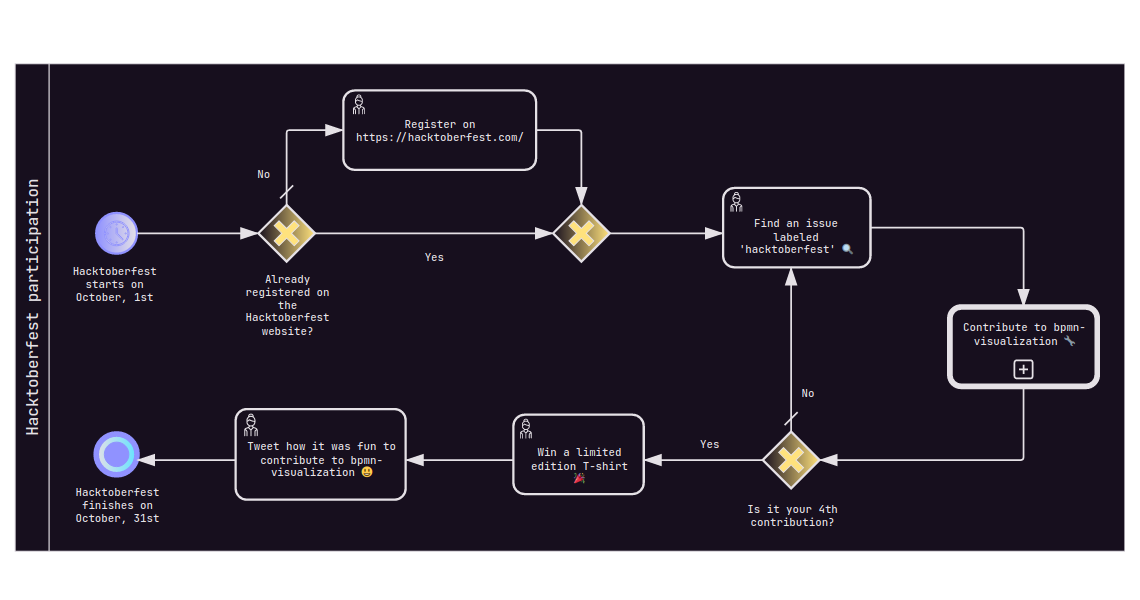
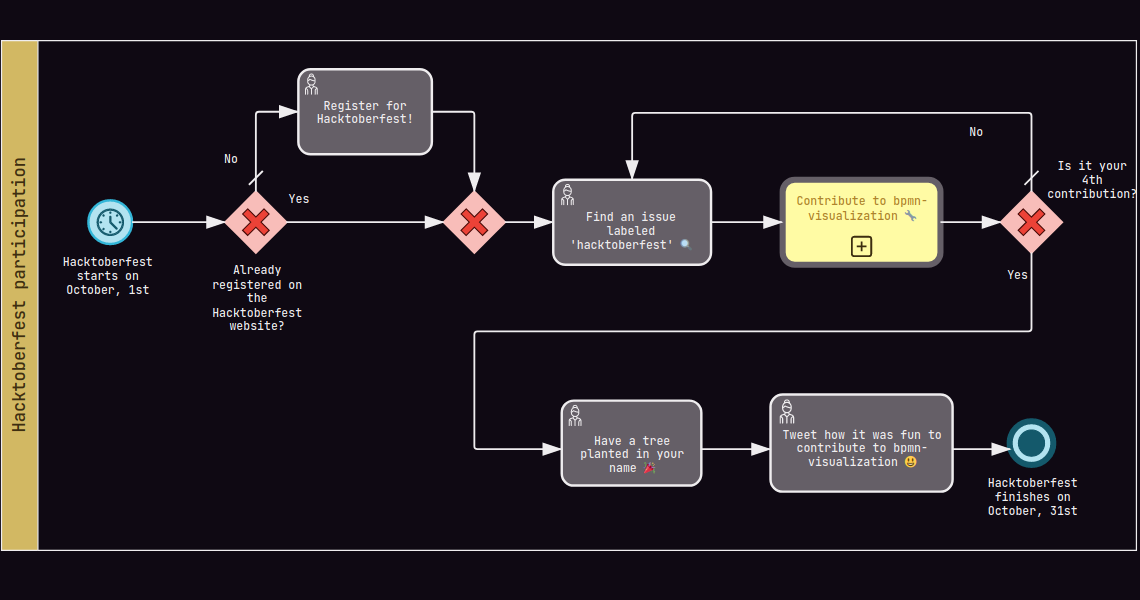
feat: improve the layout of the Hacktoberfest diagram (#555)
Use a layout that better respects the "left-to-right" direction.

diff --git a/examples/static/js/diagram/bpmn-diagrams.js b/examples/static/js/diagram/bpmn-diagrams.js
@@ -1672,24 +1672,37 @@ function getHacktoberfestBpmnDiagram(projectName) {
       <bpmn:outgoing>sequence_flow_1</bpmn:outgoing>
       <bpmn:timerEventDefinition />
     </bpmn:startEvent>
+    <bpmn:sequenceFlow id="sequence_flow_9" name="Yes" sourceRef="exclusive_gateway_3" targetRef="user_task_4">
+      <bpmn:conditionExpression xsi:type="bpmn:tFormalExpression" />
+    </bpmn:sequenceFlow>
+    <bpmn:sequenceFlow id="sequence_flow_8" name="No" sourceRef="exclusive_gateway_3" targetRef="user_task_2" />
+    <bpmn:sequenceFlow id="sequence_flow_6" sourceRef="user_task_2" targetRef="call_activity" />
+    <bpmn:sequenceFlow id="sequence_flow_5" sourceRef="exclusive_gateway_2" targetRef="user_task_2" />
+    <bpmn:sequenceFlow id="sequence_flow_4" name="Yes" sourceRef="exclusive_gateway_1" targetRef="exclusive_gateway_2">
+      <bpmn:conditionExpression xsi:type="bpmn:tFormalExpression" />
+    </bpmn:sequenceFlow>
+    <bpmn:sequenceFlow id="sequence_flow_3" sourceRef="user_task_1" targetRef="exclusive_gateway_2" />
+    <bpmn:sequenceFlow id="sequence_flow_2" name="No" sourceRef="exclusive_gateway_1" targetRef="user_task_1" />
+    <bpmn:sequenceFlow id="sequence_flow_1" sourceRef="start_event" targetRef="exclusive_gateway_1" />
     <bpmn:exclusiveGateway id="exclusive_gateway_1" name="Already registered on the Hacktoberfest website?" default="sequence_flow_2">
       <bpmn:incoming>sequence_flow_1</bpmn:incoming>
       <bpmn:outgoing>sequence_flow_2</bpmn:outgoing>
       <bpmn:outgoing>sequence_flow_4</bpmn:outgoing>
     </bpmn:exclusiveGateway>
-    <bpmn:userTask id="user_task_1" name="Register on https://hacktoberfest.com/">
-      <bpmn:incoming>sequence_flow_2</bpmn:incoming>
-      <bpmn:outgoing>sequence_flow_3</bpmn:outgoing>
-    </bpmn:userTask>
     <bpmn:exclusiveGateway id="exclusive_gateway_2">
       <bpmn:incoming>sequence_flow_3</bpmn:incoming>
       <bpmn:incoming>sequence_flow_4</bpmn:incoming>
       <bpmn:outgoing>sequence_flow_5</bpmn:outgoing>
     </bpmn:exclusiveGateway>
+    <bpmn:sequenceFlow id="sequence_flow_10" sourceRef="user_task_4" targetRef="user_task_5" />
     <bpmn:userTask id="user_task_2" name="Find an issue labeled &#39;hacktoberfest&#39; 🔍">
-      <bpmn:incoming>sequence_flow_5</bpmn:incoming>
       <bpmn:incoming>sequence_flow_8</bpmn:incoming>
+      <bpmn:incoming>sequence_flow_5</bpmn:incoming>
       <bpmn:outgoing>sequence_flow_6</bpmn:outgoing>
+    </bpmn:userTask>
+    <bpmn:userTask id="user_task_4" name="Have a tree planted in your name 🎉">
+      <bpmn:incoming>sequence_flow_9</bpmn:incoming>
+      <bpmn:outgoing>sequence_flow_10</bpmn:outgoing>
     </bpmn:userTask>
     <bpmn:callActivity id="call_activity" name="Contribute to ${projectName} 🔧">
       <bpmn:incoming>sequence_flow_6</bpmn:incoming>
@@ -1700,99 +1713,26 @@ function getHacktoberfestBpmnDiagram(projectName) {
       <bpmn:outgoing>sequence_flow_8</bpmn:outgoing>
       <bpmn:outgoing>sequence_flow_9</bpmn:outgoing>
     </bpmn:exclusiveGateway>
-    <bpmn:userTask id="user_task_4" name="Win a limited edition T-shirt 🎉">
-      <bpmn:incoming>sequence_flow_9</bpmn:incoming>
-      <bpmn:outgoing>sequence_flow_10</bpmn:outgoing>
-    </bpmn:userTask>
     <bpmn:userTask id="user_task_5" name="Tweet how it was fun to contribute to ${projectName} 😃">
       <bpmn:incoming>sequence_flow_10</bpmn:incoming>
       <bpmn:outgoing>sequence_flow_11</bpmn:outgoing>
     </bpmn:userTask>
+    <bpmn:sequenceFlow id="sequence_flow_7" sourceRef="call_activity" targetRef="exclusive_gateway_3" />
+    <bpmn:sequenceFlow id="sequence_flow_11" sourceRef="user_task_5" targetRef="end_event" />
     <bpmn:endEvent id="end_event" name="Hacktoberfest finishes on October, 31st">
       <bpmn:incoming>sequence_flow_11</bpmn:incoming>
       <bpmn:terminateEventDefinition />
     </bpmn:endEvent>
-    <bpmn:sequenceFlow id="sequence_flow_11" sourceRef="user_task_5" targetRef="end_event" />
-    <bpmn:sequenceFlow id="sequence_flow_10" sourceRef="user_task_4" targetRef="user_task_5" />
-    <bpmn:sequenceFlow id="sequence_flow_9" name="Yes" sourceRef="exclusive_gateway_3" targetRef="user_task_4">
-      <bpmn:conditionExpression xsi:type="bpmn:tFormalExpression" />
-    </bpmn:sequenceFlow>
-    <bpmn:sequenceFlow id="sequence_flow_8" name="No" sourceRef="exclusive_gateway_3" targetRef="user_task_2" />
-    <bpmn:sequenceFlow id="sequence_flow_7" sourceRef="call_activity" targetRef="exclusive_gateway_3" />
-    <bpmn:sequenceFlow id="sequence_flow_6" sourceRef="user_task_2" targetRef="call_activity" />
-    <bpmn:sequenceFlow id="sequence_flow_5" sourceRef="exclusive_gateway_2" targetRef="user_task_2" />
-    <bpmn:sequenceFlow id="sequence_flow_4" name="Yes" sourceRef="exclusive_gateway_1" targetRef="exclusive_gateway_2">
-      <bpmn:conditionExpression xsi:type="bpmn:tFormalExpression" />
-    </bpmn:sequenceFlow>
-    <bpmn:sequenceFlow id="sequence_flow_3" sourceRef="user_task_1" targetRef="exclusive_gateway_2" />
-    <bpmn:sequenceFlow id="sequence_flow_2" name="No" sourceRef="exclusive_gateway_1" targetRef="user_task_1" />
-    <bpmn:sequenceFlow id="sequence_flow_1" sourceRef="start_event" targetRef="exclusive_gateway_1" />
+    <bpmn:userTask id="user_task_1" name="Register for Hacktoberfest!">
+      <bpmn:incoming>sequence_flow_2</bpmn:incoming>
+      <bpmn:outgoing>sequence_flow_3</bpmn:outgoing>
+    </bpmn:userTask>
   </bpmn:process>
   <bpmndi:BPMNDiagram id="BPMNDiagram_1">
     <bpmndi:BPMNPlane id="BPMNPlane_1" bpmnElement="collaboration_1">
       <bpmndi:BPMNShape id="shape_participant_1" bpmnElement="participant_1" isHorizontal="true">
-        <dc:Bounds x="160" y="60" width="979" height="430" />
+        <dc:Bounds x="160" y="60" width="940" height="420" />
       </bpmndi:BPMNShape>
-      <bpmndi:BPMNEdge id="edge_sequence_flow_1" bpmnElement="sequence_flow_1">
-        <di:waypoint x="268" y="210" />
-        <di:waypoint x="375" y="210" />
-      </bpmndi:BPMNEdge>
-      <bpmndi:BPMNEdge id="edge_sequence_flow_2" bpmnElement="sequence_flow_2">
-        <di:waypoint x="400" y="185" />
-        <di:waypoint x="400" y="119" />
-        <di:waypoint x="450" y="119" />
-        <bpmndi:BPMNLabel>
-          <dc:Bounds x="372" y="150" width="15" height="14" />
-        </bpmndi:BPMNLabel>
-      </bpmndi:BPMNEdge>
-      <bpmndi:BPMNEdge id="edge_sequence_flow_3" bpmnElement="sequence_flow_3">
-        <di:waypoint x="620" y="119" />
-        <di:waypoint x="660" y="119" />
-        <di:waypoint x="660" y="185" />
-      </bpmndi:BPMNEdge>
-      <bpmndi:BPMNEdge id="edge_sequence_flow_4" bpmnElement="sequence_flow_4">
-        <di:waypoint x="425" y="210" />
-        <di:waypoint x="635" y="210" />
-        <bpmndi:BPMNLabel>
-          <dc:Bounds x="521" y="223" width="18" height="14" />
-        </bpmndi:BPMNLabel>
-      </bpmndi:BPMNEdge>
-      <bpmndi:BPMNEdge id="edge_sequence_flow_5" bpmnElement="sequence_flow_5">
-        <di:waypoint x="685" y="210" />
-        <di:waypoint x="785" y="210" />
-      </bpmndi:BPMNEdge>
-      <bpmndi:BPMNEdge id="edge_sequence_flow_6" bpmnElement="sequence_flow_6">
-        <di:waypoint x="915" y="205" />
-        <di:waypoint x="1050" y="205" />
-        <di:waypoint x="1050" y="275" />
-      </bpmndi:BPMNEdge>
-      <bpmndi:BPMNEdge id="edge_sequence_flow_7" bpmnElement="sequence_flow_7">
-        <di:waypoint x="1050" y="345" />
-        <di:waypoint x="1050" y="410" />
-        <di:waypoint x="870" y="410" />
-      </bpmndi:BPMNEdge>
-      <bpmndi:BPMNEdge id="edge_sequence_flow_8" bpmnElement="sequence_flow_8">
-        <di:waypoint x="845" y="385" />
-        <di:waypoint x="845" y="240" />
-        <bpmndi:BPMNLabel>
-          <dc:Bounds x="852" y="343" width="15" height="14" />
-        </bpmndi:BPMNLabel>
-      </bpmndi:BPMNEdge>
-      <bpmndi:BPMNEdge id="edge_sequence_flow_9" bpmnElement="sequence_flow_9">
-        <di:waypoint x="820" y="410" />
-        <di:waypoint x="715" y="410" />
-        <bpmndi:BPMNLabel>
-          <dc:Bounds x="764" y="388" width="18" height="14" />
-        </bpmndi:BPMNLabel>
-      </bpmndi:BPMNEdge>
-      <bpmndi:BPMNEdge id="edge_sequence_flow_10" bpmnElement="sequence_flow_10">
-        <di:waypoint x="600" y="410" />
-        <di:waypoint x="505" y="410" />
-      </bpmndi:BPMNEdge>
-      <bpmndi:BPMNEdge id="edge_sequence_flow_11" bpmnElement="sequence_flow_11">
-        <di:waypoint x="355" y="410" />
-        <di:waypoint x="268" y="410" />
-      </bpmndi:BPMNEdge>
       <bpmndi:BPMNShape id="shape_start_event" bpmnElement="start_event">
         <dc:Bounds x="232" y="192" width="36" height="36" />
         <bpmndi:BPMNLabel>
@@ -1800,53 +1740,116 @@ function getHacktoberfestBpmnDiagram(projectName) {
         </bpmndi:BPMNLabel>
       </bpmndi:BPMNShape>
       <bpmndi:BPMNShape id="shape_exclusive_gateway_1" bpmnElement="exclusive_gateway_1" isMarkerVisible="true">
-        <dc:Bounds x="375" y="185" width="50" height="50" />
+        <dc:Bounds x="345" y="185" width="50" height="50" />
         <bpmndi:BPMNLabel>
-          <dc:Bounds x="355" y="242" width="90" height="40" />
+          <dc:Bounds x="329" y="242" width="83" height="53" />
         </bpmndi:BPMNLabel>
       </bpmndi:BPMNShape>
       <bpmndi:BPMNShape id="shape_user_task_1" bpmnElement="user_task_1">
-        <dc:Bounds x="450" y="84" width="170" height="70" />
+        <dc:Bounds x="405" y="84" width="110" height="70" />
       </bpmndi:BPMNShape>
       <bpmndi:BPMNShape id="shape_exclusive_gateway_2" bpmnElement="exclusive_gateway_2" isMarkerVisible="true">
-        <dc:Bounds x="635" y="185" width="50" height="50" />
+        <dc:Bounds x="525" y="185" width="50" height="50" />
       </bpmndi:BPMNShape>
       <bpmndi:BPMNShape id="shape_user_task_2" bpmnElement="user_task_2">
-        <dc:Bounds x="785" y="170" width="130" height="70" />
+        <dc:Bounds x="615" y="175" width="130" height="70" />
         <bpmndi:BPMNLabel>
-          <dc:Bounds x="792" y="193" width="113" height="45" />
-        </bpmndi:BPMNLabel>
-      </bpmndi:BPMNShape>
-      <bpmndi:BPMNShape id="shape_call_activity" bpmnElement="call_activity">
-        <dc:Bounds x="985" y="275" width="130" height="70" />
-        <bpmndi:BPMNLabel>
-          <dc:Bounds x="995" y="285" width="110" height="45" />
-        </bpmndi:BPMNLabel>
-      </bpmndi:BPMNShape>
-      <bpmndi:BPMNShape id="shape_exclusive_gateway_3" bpmnElement="exclusive_gateway_3" isMarkerVisible="true">
-        <dc:Bounds x="820" y="385" width="50" height="50" />
-        <bpmndi:BPMNLabel>
-          <dc:Bounds x="803" y="445" width="85" height="27" />
+          <dc:Bounds x="622" y="198" width="113" height="45" />
         </bpmndi:BPMNLabel>
       </bpmndi:BPMNShape>
       <bpmndi:BPMNShape id="shape_user_task_4" bpmnElement="user_task_4">
-        <dc:Bounds x="600" y="370" width="115" height="70" />
+        <dc:Bounds x="622" y="357" width="115" height="70" />
         <bpmndi:BPMNLabel>
-          <dc:Bounds x="610" y="395" width="95" height="45" />
+          <dc:Bounds x="632" y="382" width="95" height="45" />
+        </bpmndi:BPMNLabel>
+      </bpmndi:BPMNShape>
+      <bpmndi:BPMNShape id="shape_call_activity" bpmnElement="call_activity">
+        <dc:Bounds x="804" y="175" width="130" height="70" />
+        <bpmndi:BPMNLabel>
+          <dc:Bounds x="814" y="185" width="110" height="45" />
+        </bpmndi:BPMNLabel>
+      </bpmndi:BPMNShape>
+      <bpmndi:BPMNShape id="shape_exclusive_gateway_3" bpmnElement="exclusive_gateway_3" isMarkerVisible="true">
+        <dc:Bounds x="984" y="185" width="50" height="50" />
+        <bpmndi:BPMNLabel>
+          <dc:Bounds x="1027" y="156" width="63" height="27" />
         </bpmndi:BPMNLabel>
       </bpmndi:BPMNShape>
       <bpmndi:BPMNShape id="shape_user_task_5" bpmnElement="user_task_5">
-        <dc:Bounds x="355" y="365" width="150" height="80" />
+        <dc:Bounds x="794" y="352" width="150" height="80" />
         <bpmndi:BPMNLabel>
-          <dc:Bounds x="365" y="390" width="130" height="55" />
+          <dc:Bounds x="804" y="377" width="130" height="55" />
         </bpmndi:BPMNLabel>
       </bpmndi:BPMNShape>
       <bpmndi:BPMNShape id="shape_end_event" bpmnElement="end_event">
-        <dc:Bounds x="232" y="387" width="36" height="36" />
+        <dc:Bounds x="991" y="374" width="36" height="36" />
         <bpmndi:BPMNLabel>
-          <dc:Bounds x="216" y="430" width="68" height="40" />
+          <dc:Bounds x="975" y="417" width="69" height="40" />
         </bpmndi:BPMNLabel>
       </bpmndi:BPMNShape>
+      <bpmndi:BPMNEdge id="edge_sequence_flow_9" bpmnElement="sequence_flow_9">
+        <di:waypoint x="1009" y="235" />
+        <di:waypoint x="1009" y="300" />
+        <di:waypoint x="550" y="300" />
+        <di:waypoint x="550" y="397" />
+        <di:waypoint x="622" y="397" />
+        <bpmndi:BPMNLabel>
+          <dc:Bounds x="988" y="245" width="19" height="14" />
+        </bpmndi:BPMNLabel>
+      </bpmndi:BPMNEdge>
+      <bpmndi:BPMNEdge id="edge_sequence_flow_8" bpmnElement="sequence_flow_8">
+        <di:waypoint x="1009" y="185" />
+        <di:waypoint x="1009" y="120" />
+        <di:waypoint x="680" y="120" />
+        <di:waypoint x="680" y="175" />
+        <bpmndi:BPMNLabel>
+          <dc:Bounds x="956" y="128" width="15" height="14" />
+        </bpmndi:BPMNLabel>
+      </bpmndi:BPMNEdge>
+      <bpmndi:BPMNEdge id="edge_sequence_flow_6" bpmnElement="sequence_flow_6">
+        <di:waypoint x="745" y="210" />
+        <di:waypoint x="804" y="210" />
+      </bpmndi:BPMNEdge>
+      <bpmndi:BPMNEdge id="edge_sequence_flow_5" bpmnElement="sequence_flow_5">
+        <di:waypoint x="575" y="210" />
+        <di:waypoint x="615" y="210" />
+      </bpmndi:BPMNEdge>
+      <bpmndi:BPMNEdge id="edge_sequence_flow_4" bpmnElement="sequence_flow_4">
+        <di:waypoint x="395" y="210" />
+        <di:waypoint x="525" y="210" />
+        <bpmndi:BPMNLabel>
+          <dc:Bounds x="396" y="183" width="19" height="14" />
+        </bpmndi:BPMNLabel>
+      </bpmndi:BPMNEdge>
+      <bpmndi:BPMNEdge id="edge_sequence_flow_3" bpmnElement="sequence_flow_3">
+        <di:waypoint x="515" y="119" />
+        <di:waypoint x="550" y="119" />
+        <di:waypoint x="550" y="185" />
+      </bpmndi:BPMNEdge>
+      <bpmndi:BPMNEdge id="edge_sequence_flow_2" bpmnElement="sequence_flow_2">
+        <di:waypoint x="370" y="185" />
+        <di:waypoint x="370" y="119" />
+        <di:waypoint x="405" y="119" />
+        <bpmndi:BPMNLabel>
+          <dc:Bounds x="342" y="150" width="15" height="14" />
+        </bpmndi:BPMNLabel>
+      </bpmndi:BPMNEdge>
+      <bpmndi:BPMNEdge id="edge_sequence_flow_1" bpmnElement="sequence_flow_1">
+        <di:waypoint x="268" y="210" />
+        <di:waypoint x="345" y="210" />
+      </bpmndi:BPMNEdge>
+      <bpmndi:BPMNEdge id="edge_sequence_flow_10" bpmnElement="sequence_flow_10">
+        <di:waypoint x="737" y="397" />
+        <di:waypoint x="794" y="397" />
+      </bpmndi:BPMNEdge>
+      <bpmndi:BPMNEdge id="edge_sequence_flow_7" bpmnElement="sequence_flow_7">
+        <di:waypoint x="934" y="210" />
+        <di:waypoint x="984" y="210" />
+      </bpmndi:BPMNEdge>
+      <bpmndi:BPMNEdge id="edge_sequence_flow_11" bpmnElement="sequence_flow_11">
+        <di:waypoint x="944" y="397" />
+        <di:waypoint x="992" y="397" />
+      </bpmndi:BPMNEdge>
     </bpmndi:BPMNPlane>
   </bpmndi:BPMNDiagram>
 </bpmn:definitions>
